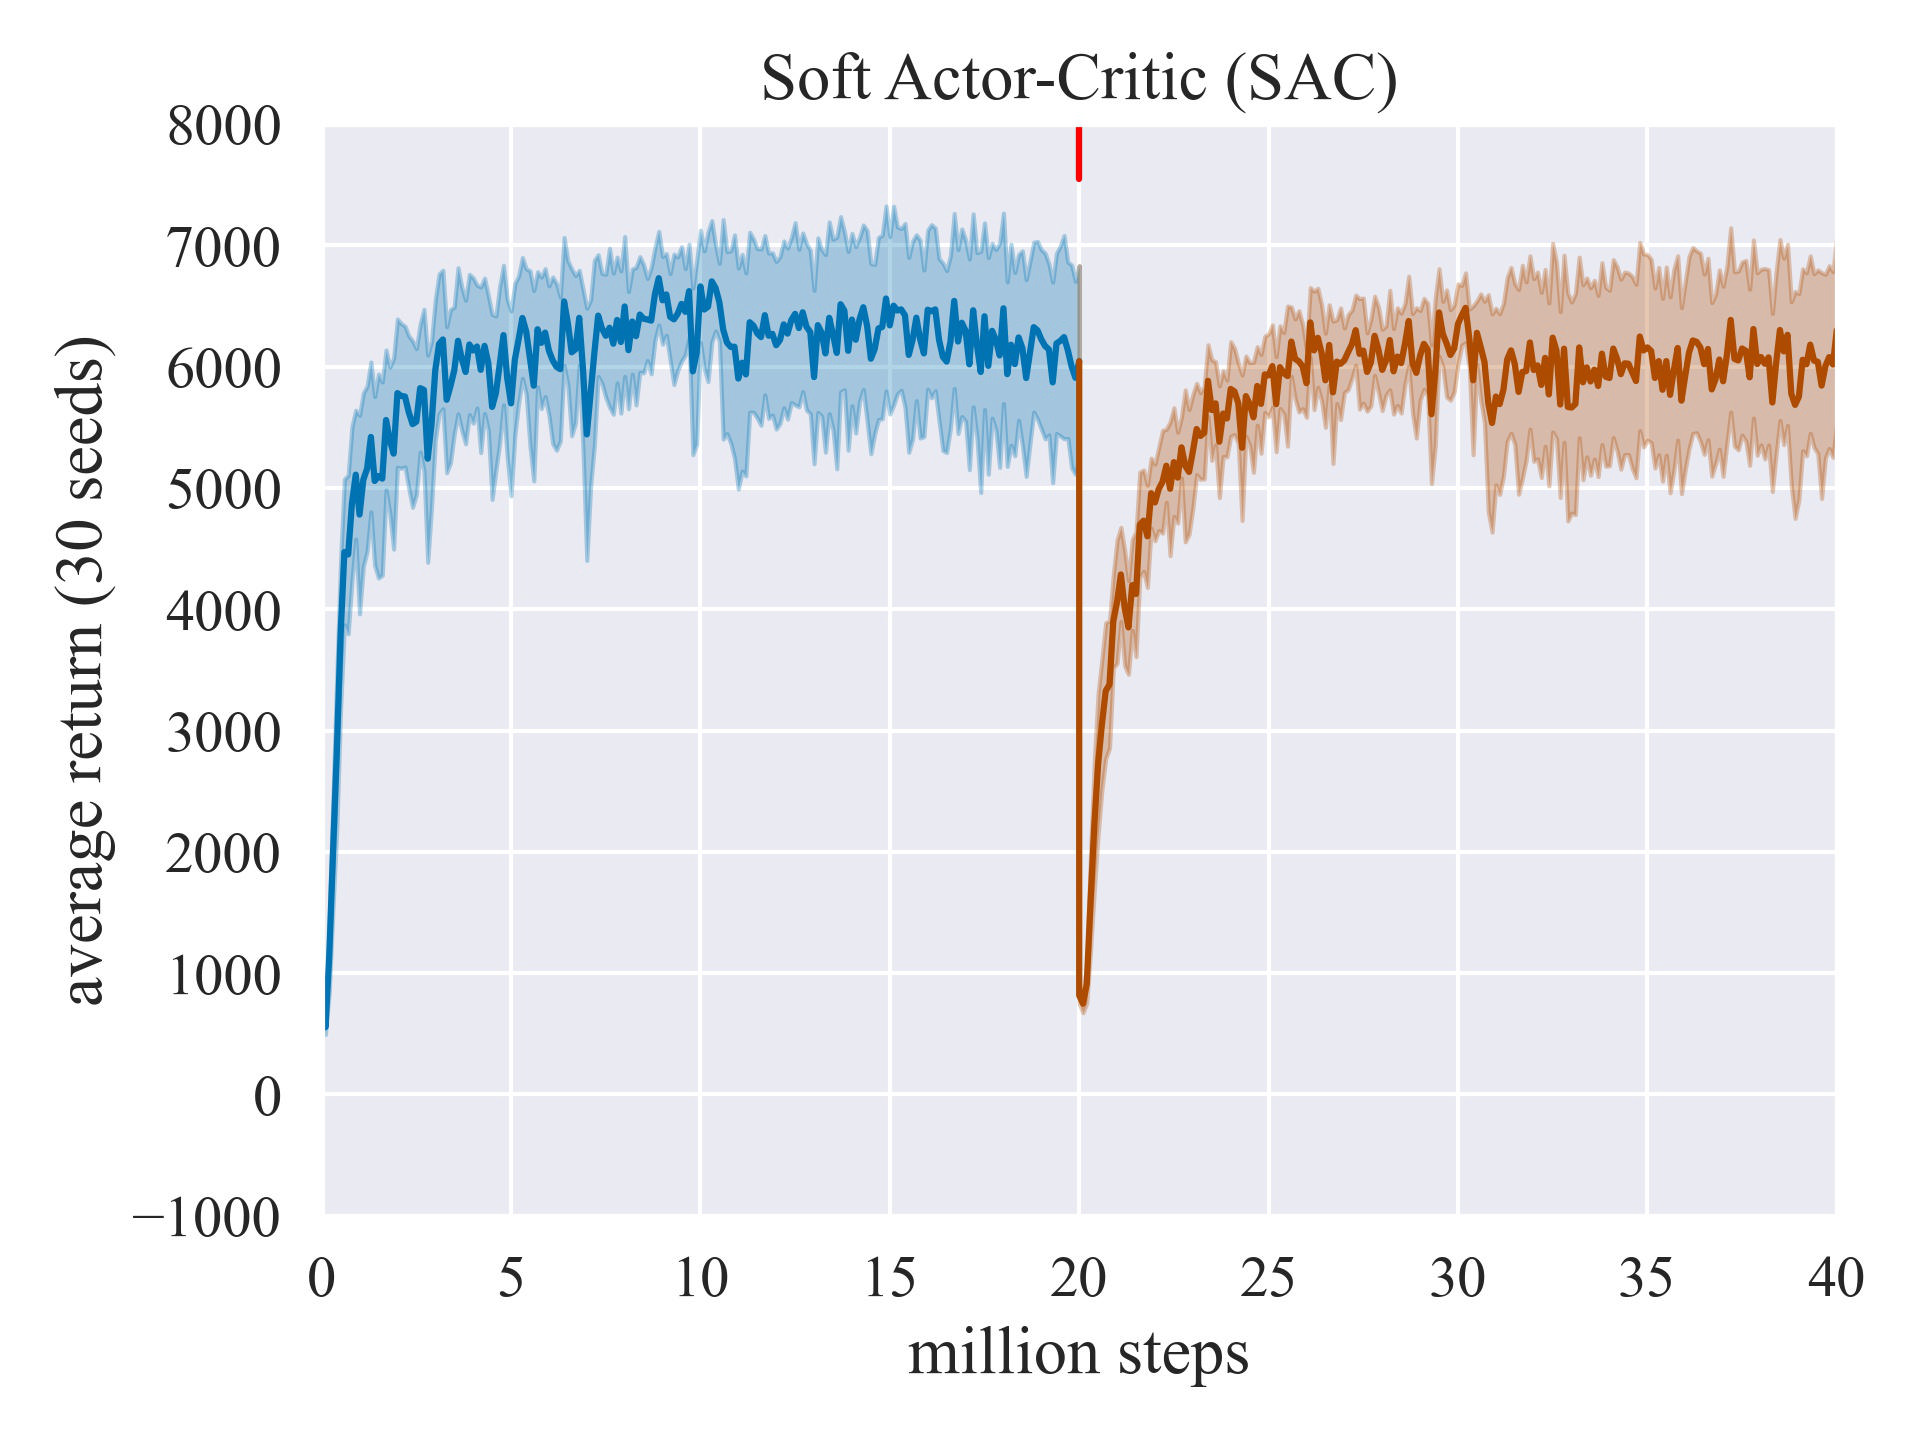
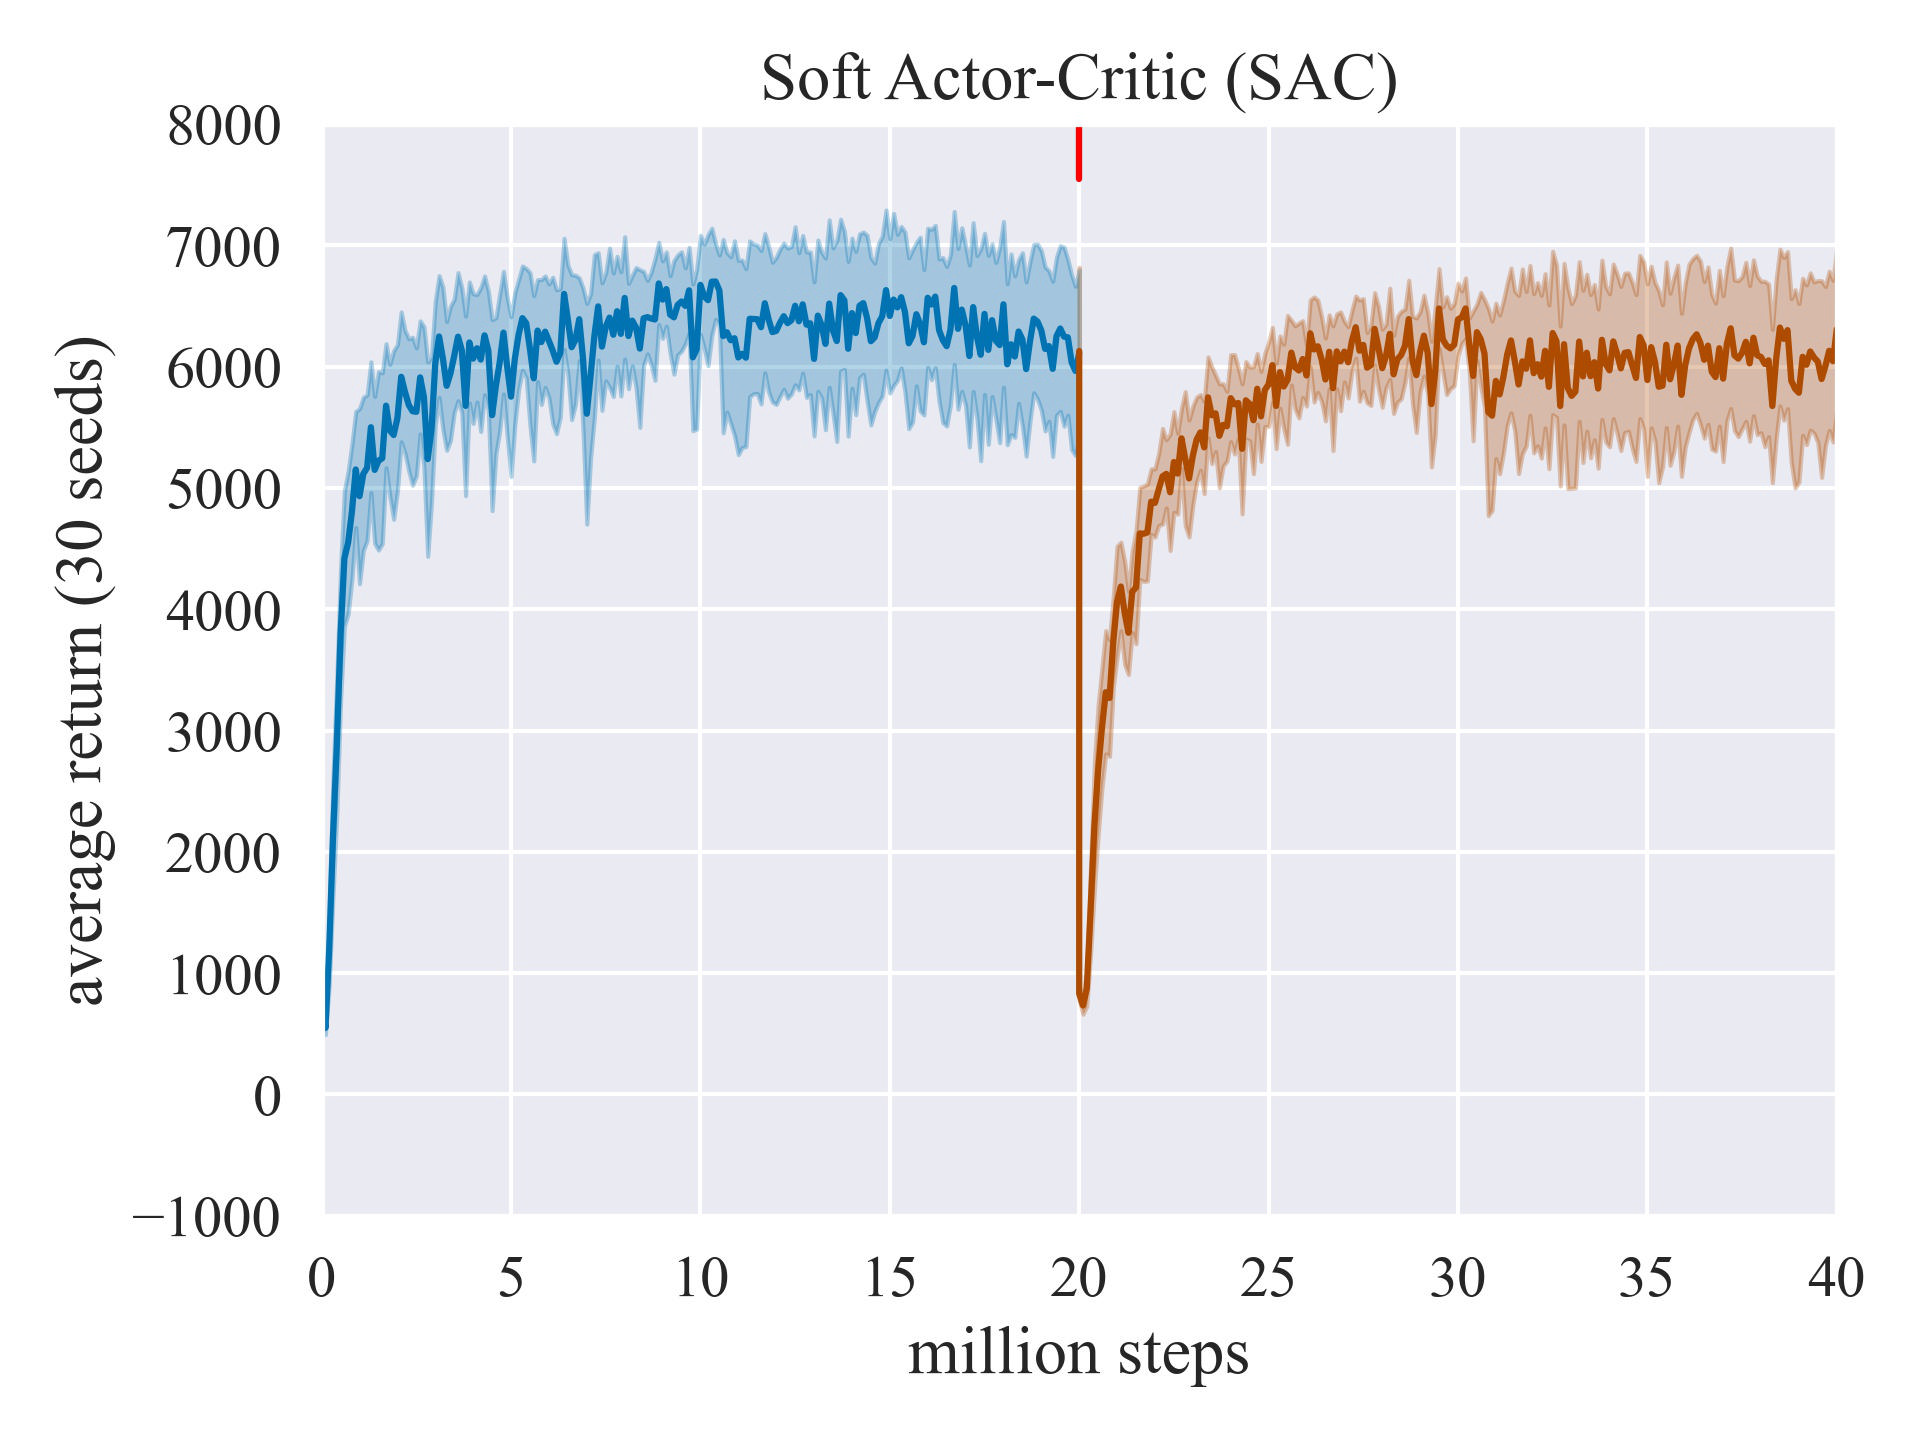
updated plots

Changed region(s): [[0.1562, 0.1562, 0.5625, 0.4375], [0.5938, 0.1562, 0.9688, 0.375], [0.5625, 0.375, 0.5938, 0.5]]

diff --git a/plot/paper/paper.py b/plot/paper/paper.py
@@ -562,7 +562,7 @@ if __name__ == "__main__":
     zoom_init_ymin = ymin
     zoom_init_ymax = ymax
 
-    # plot_experiment(os.path.join(sac_data_dir, "v1"))
+    plot_experiment(os.path.join(sac_data_dir, "v1"))
 
     # v2
 
